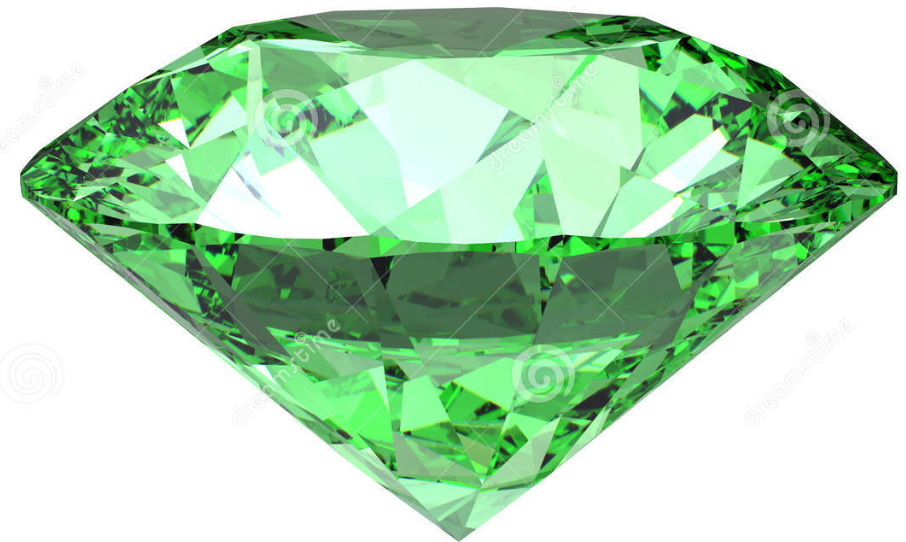
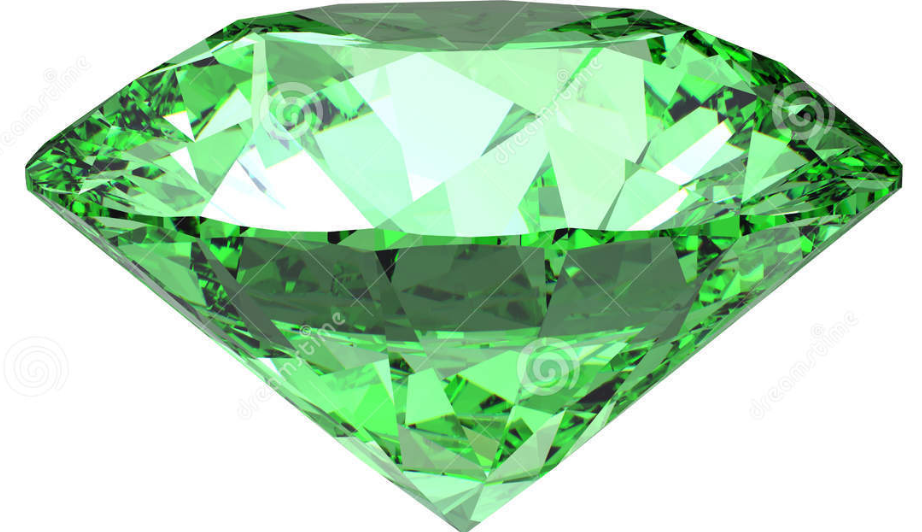
added greenish

diff --git a/index.html b/index.html
@@ -47,7 +47,7 @@
       <h6>click here</h6>
     </div>
     <div class="col-sm-3">
-      <input type="image" id="crystalTwoValue" class="img-fluid" src="assets/images/green_crystal.PNG" alt="green crystal">
+      <input type="image" id="crystalTwoValue" class="img-fluid" src="assets/images/greenish_crystal.PNG" alt="green crystal">
       <h6>click here</h6>
     </div>
     <div class="col-sm-3">
